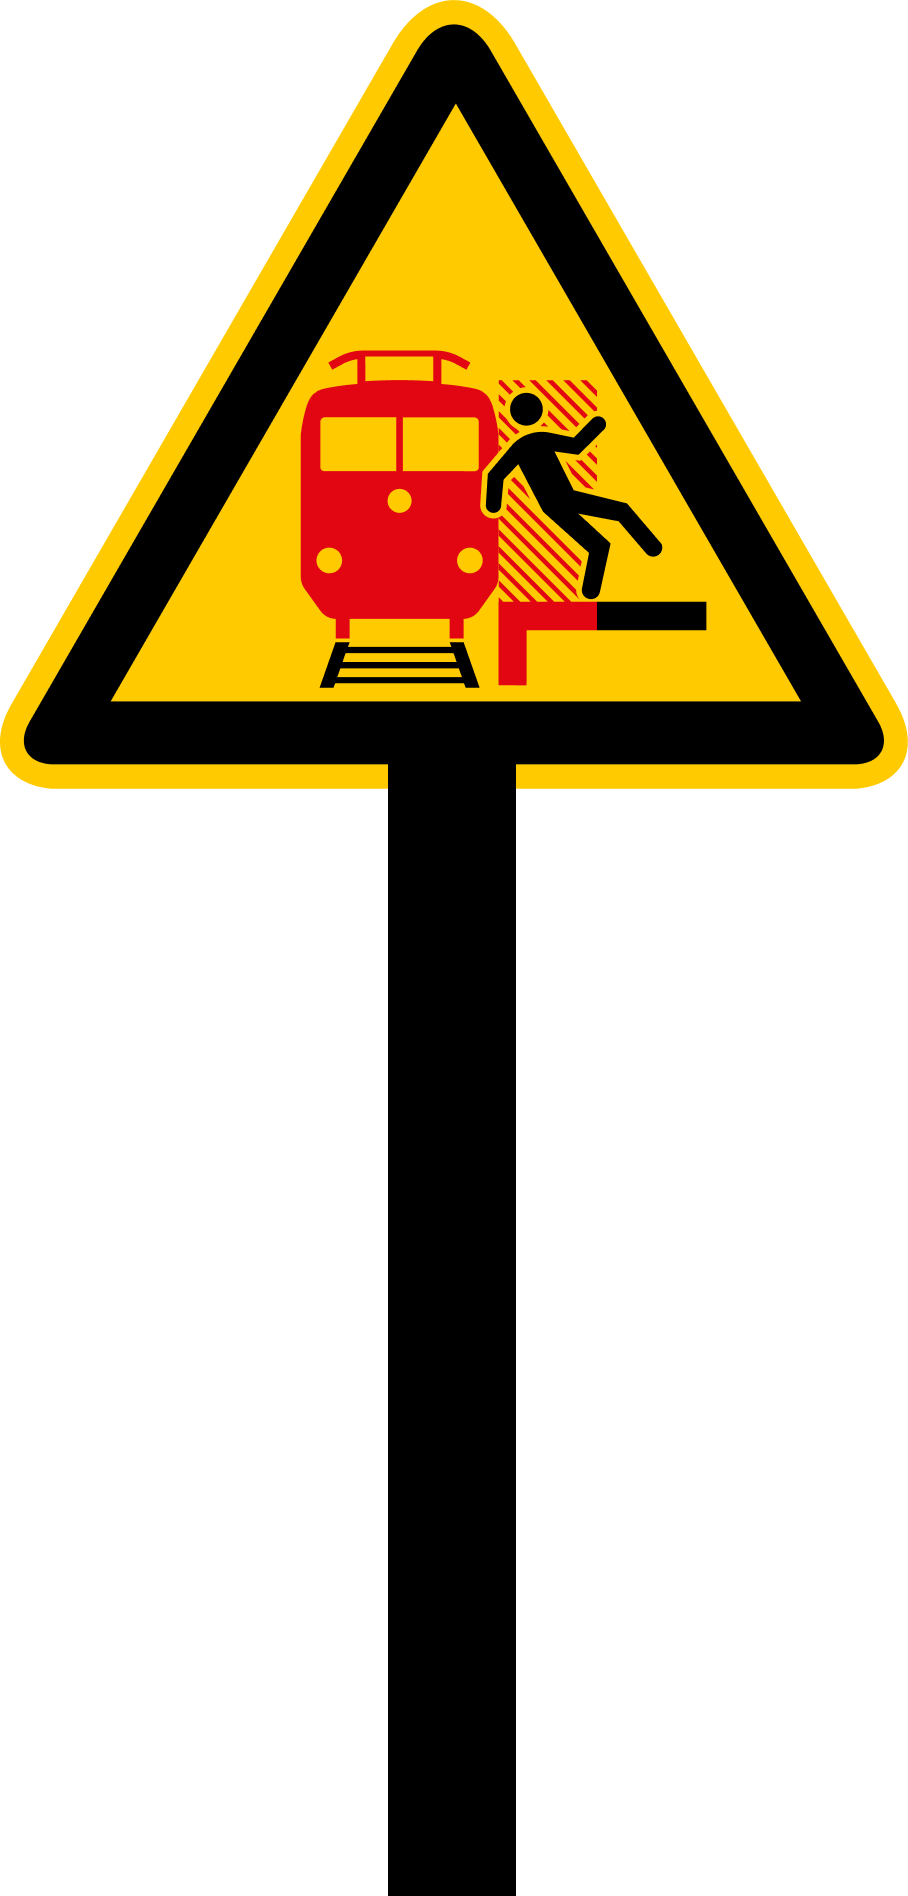
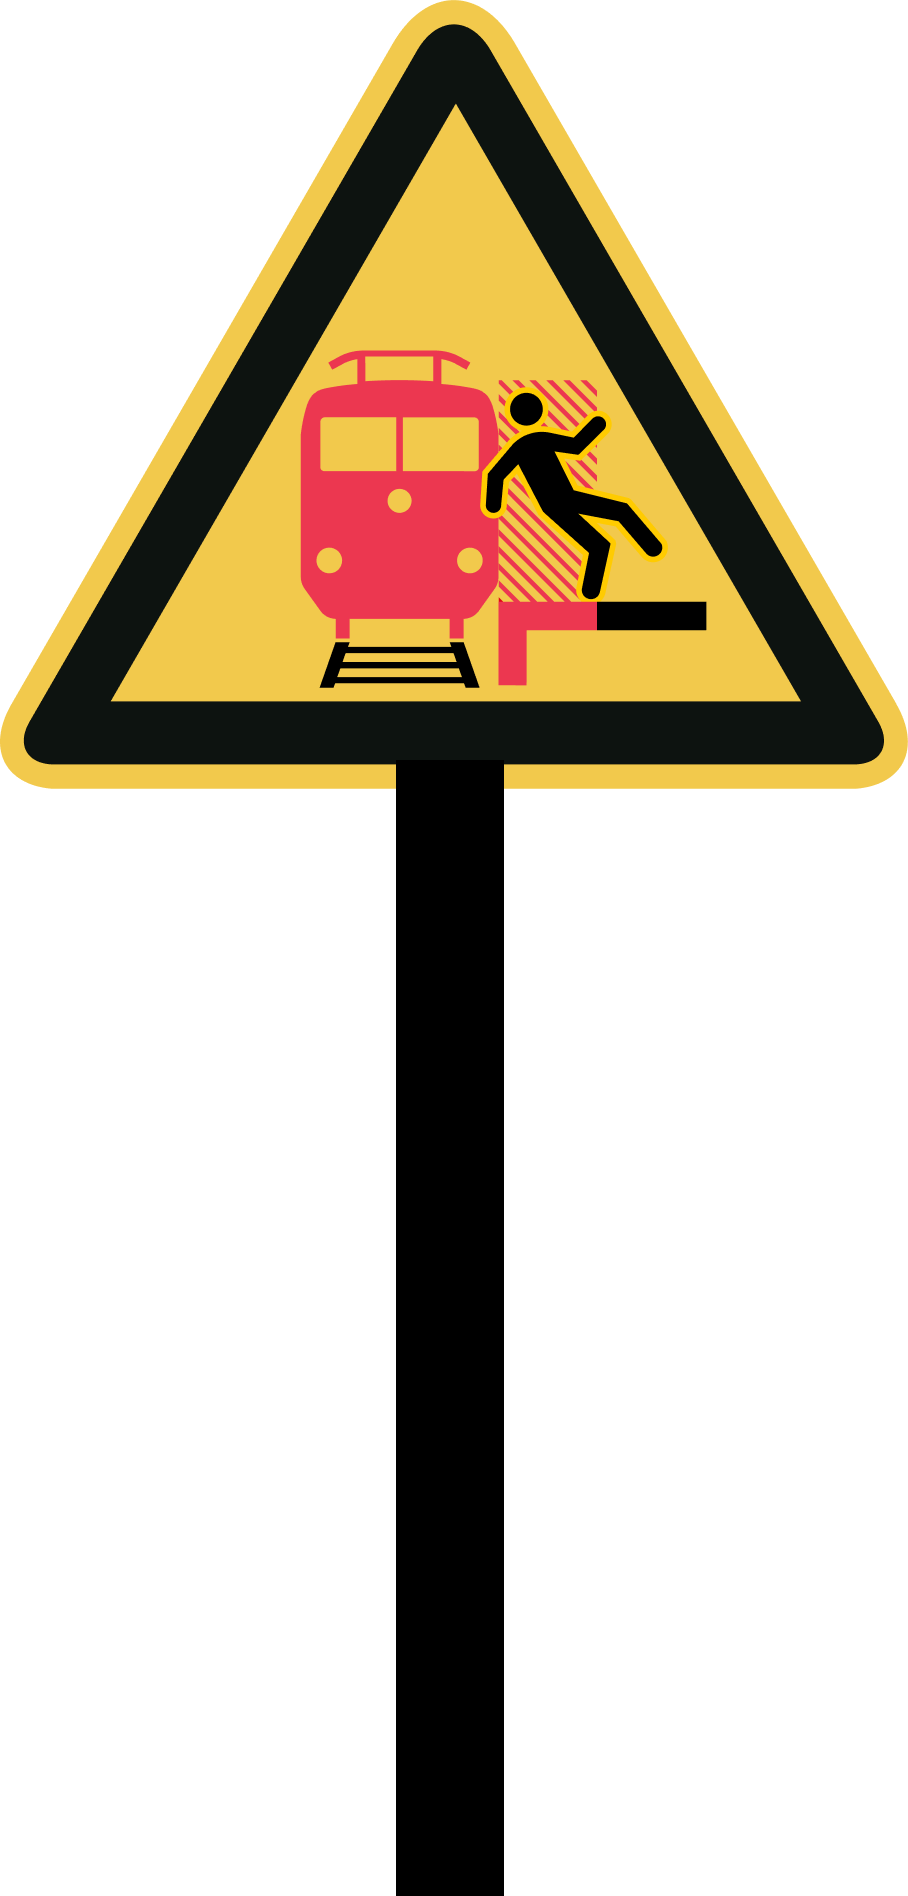
new assets + different styling

Changed region(s): [[0.0, 0.0, 1.0, 1.0]]

diff --git a/src/styles/home.css b/src/styles/home.css
@@ -249,15 +249,17 @@ h2 {
 .idea-card {
     display: flex;
     flex-direction: column;
-    background-color: var(--green);
-    color: var(--bg);
+    background-color: var(--danger);
+    color: var(--fg);
     border-radius: 1rem;
-    overflow: hidden;
+    padding: 0.5rem;
+    max-width: 300px;
 }
 
 .idea-card-image {
-    width: 100%;
     height: 150px;
+    width: 100%;
+    border-radius: 0.5rem;
     object-fit: cover;
     display: block;
 }
@@ -279,15 +281,17 @@ h2 {
 }
 
 .idea-card-title {
-    margin: 1rem 1rem 0.25rem;
+    margin: 1rem;
+    margin-bottom: 0;
     font-size: 1.2rem;
     font-weight: bold;
 }
 
 .idea-card-desc {
-    margin: 0 1rem 1.25rem;
     font-size: 0.95rem;
     line-height: 1.45;
+    margin: 1rem;
+    margin-top: 0rem;
 }
 
 .faq-container {
@@ -479,5 +483,9 @@ summary {
 
     .ideas-carousel {
         grid-template-columns: 1fr;
+    }
+
+    .sign {
+        display: none;
     }
 }
